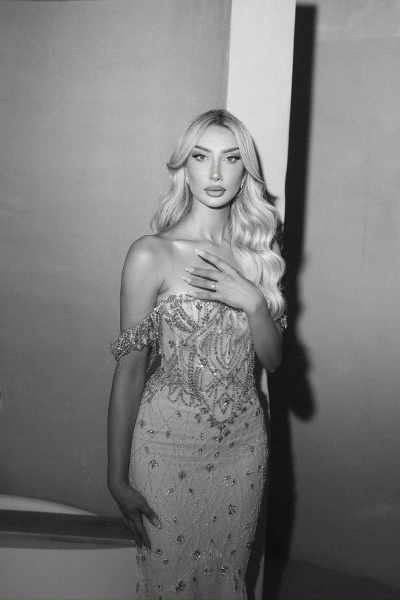
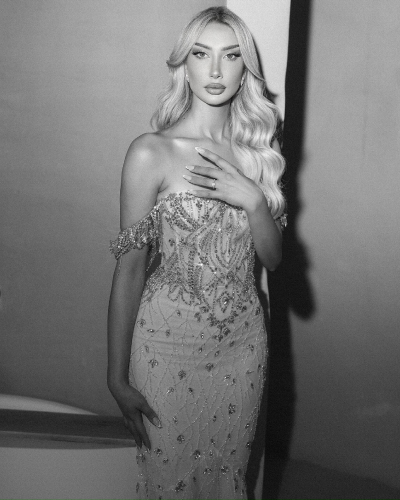
newLastFixes

diff --git a/src/components/place/Place.js b/src/components/place/Place.js
@@ -1,35 +1,64 @@
 import React from 'react';
-import { FaWaze, FaMapMarkerAlt } from 'react-icons/fa';
+import { FaWaze, FaMapMarkerAlt, FaPhone, FaWhatsapp, FaEnvelope } from 'react-icons/fa';
+import { FaTiktok } from 'react-icons/fa6';
 import styles from './Place.module.css';
 
 const Place = () => {
-  return <>
-    <div className={styles.header}>כמה פרטים קטנים וחשובים</div>
-    <div className={styles.container}>
-      <div className={styles.box}>
-        <h2 className={styles.title}>מיקום הסטודיו שלי</h2>
-        <p className={styles.address}>שביל הלילך ( רמח״ל 38 ב ) עכו</p>
-        <p className={styles.navigationPrompt}>לחצי על האפליקציה שנוחה לך ונווטי ישירות אלי</p>
-        <div className={styles.iconContainer}>
-          <a href="https://waze.com/ul/hsvbgqd796" target="_blank" rel="noopener noreferrer" className={styles.iconLink}>
-            <FaWaze className={styles.icon} />
-          </a>
-          <a href="https://maps.app.goo.gl/8pqfA1WuPSYhZhSu7?g_st=com.google.maps.preview.copy" target="_blank" rel="noopener noreferrer" className={styles.iconLink}>
-            <FaMapMarkerAlt className={styles.icon} />
-          </a>
+  const handleWhatsAppClick = (e) => {
+    e.preventDefault();
+    const phoneNumber = "+972545300087";
+    const message = "היי שרון ,אני רוצה לשמוע ממך עוד על..";
+    const encodedMessage = encodeURIComponent(message);
+    const whatsappURL = `https://wa.me/${phoneNumber}?text=${encodedMessage}`;
+    window.open(whatsappURL, "_blank");
+  };
+
+  return (
+    <>
+      <div className={styles.header}>כמה פרטים קטנים וחשובים</div>
+      <div className={styles.container}>
+        <div className={styles.box}>
+          <h2 className={styles.title}>מיקום הסטודיו שלי</h2>
+          <p className={styles.address}>שביל הלילך ( רמח״ל 38 ב ) עכו</p>
+          <p className={styles.navigationPrompt}>לחצי על האפליקציה שנוחה לך ונווטי ישירות אלי</p>
+          <div className={styles.iconContainer}>
+            <a href="https://waze.com/ul/hsvbgqd796" target="_blank" rel="noopener noreferrer" className={styles.iconLink}>
+              <FaWaze className={styles.icon} />
+            </a>
+            <a href="https://maps.app.goo.gl/8pqfA1WuPSYhZhSu7?g_st=com.google.maps.preview.copy" target="_blank" rel="noopener noreferrer" className={styles.iconLink}>
+              <FaMapMarkerAlt className={styles.icon} />
+            </a>
+            <a href="tel:+972545300087" className={styles.iconLink}>
+              <FaPhone className={styles.icon} />
+            </a>
+            <a href="#" onClick={handleWhatsAppClick} className={styles.iconLink}>
+              <FaWhatsapp className={styles.icon} />
+            </a>
+          </div>
         </div>
-    
+        <div className={styles.box}>
+          <h2 className={styles.title}>שעות הפעילות שלי:</h2>
+          <p className={styles.hours}>
+            ימי א-ה : 9:00-18:00<br />
+            יום שישי : 9:00-15:00<br />
+            יום שבת:סגור
+          </p>
+        </div>
+        <div className={styles.box}>
+          <h2 className={styles.title}>צרו איתי קשר:</h2>
+          <p className={styles.contactInfo}>מספר הטלפון שלי: 0545300087</p>
+          <div className={styles.iconContainer}>
+            <a href="mailto:sharsror@walla.com" className={styles.iconLink}>
+              <FaEnvelope className={styles.icon} />
+            </a>
+            <a href="https://www.tiktok.com/@sharonsror3" target="_blank" rel="noopener noreferrer" className={styles.iconLink}>
+              <FaTiktok className={styles.icon} />
+            </a>
+          </div>
+        </div>
       </div>
-      <div className={styles.box}>
-        <h2 className={styles.title}>שעות הפעילות שלי:</h2>
-        <p className={styles.hours}>
-          ימי א-ה : 9:00-18:00<br />
-          יום שישי : 9:00-15:00<br />
-          יום שבת:סגור
-        </p>
-      </div>
-    </div>
-  </>;
+    </>
+  );
 };
 
 export default Place;

diff --git a/src/bridesPage/screens/ThirdScreenBrides.js b/src/bridesPage/screens/ThirdScreenBrides.js
@@ -14,7 +14,7 @@ return <>
    <FAQItem question="עובדת בשבת?" answer="חוץ מהעובדה שאני שומרת שבת, אני חושבת שמגיע לנו יום מנוחה אחד בשבוע (לי ולציוד שלי) "/>
    <FAQItem question="את מגיעה לכלות?" answer="כן, אני מגיעה לאזור תל אביב וצפונה"/>
    <FAQItem question="האם את גם מסרקת?" answer="אני עצמי רק מאפרת, אני עובדת עם מסרקים ומסרקות מקצועיים שמגיעים אלי לסטודיו"/>
-   <FAQItem question="האם ניתן להגיע להתאגן אצלך?" answer="כמובן! הסטודיו שלי נמצא בעכו ומתאים להתארגנות של כלה ו4 מלוות איתה, בסטודיו יש עמדת שיער למסרק/ת ,עמדת איפור,עמדת קפה וישיבה וכמובן - אווירה טובה  "/>
+   <FAQItem question="האם ניתן להגיע להתארגן אצלך?" answer="כמובן! הסטודיו שלי נמצא בעכו ומתאים להתארגנות של כלה ו4 מלוות איתה, בסטודיו יש עמדת שיער למסרק/ת ,עמדת איפור,עמדת קפה וישיבה וכמובן - אווירה טובה  "/>
    <FAQItem question="האם חובה לקחת  ליווי כלה לאולם?" answer="לא חובה לקחת ליווי כלה, כמובן שזה משתנה מאחת לאחת ותלוי בסוג העור, מזג אויר ואופי הכלה. כמובן כל כלה מקבלת ממני ערכת טאצ'אפים "/>
    {/* <FAQItem question="יש ליווי אחת על אחת?" answer={<>הליווי קיים אבל העלות ליחס אישי לגמרי תהיה גבוהה יותר - תלחצי על הכפתור כאן ונדבר על הכל <br/> <Button text="שרון בואי נדבר!" message="היי שרון, אשמח לשמוע עוד פרטים בנוגע לליווי אחת על אחת"/></>}/> */}
 </>

diff --git a/src/trainingPage/screens/FirstScreenTraining.module.css b/src/trainingPage/screens/FirstScreenTraining.module.css
@@ -51,7 +51,7 @@
     top: -115px;
     right: -75px;
     transform: rotate(20deg);
-    background-image: url('../../images/שרון\ סרור\ כלות\ 21.png');
+    background-image: url('../../images/שרון\ סרור\ כלות\ 8.png');
   }
   
   .middleLeftImage {

diff --git a/src/bridesPage/screens/FirstScreenBrides.module.css b/src/bridesPage/screens/FirstScreenBrides.module.css
@@ -61,7 +61,7 @@
   top: -135px;
   left: 50%;
   transform: translateX(-50%);
-  background-image: url('../../images/שרון\ סרור\ כלות\ 26.png');
+  background-image: url('../../images/שרון\ סרור\ כלות\ 12.png');
   z-index: -2;
 }
 
